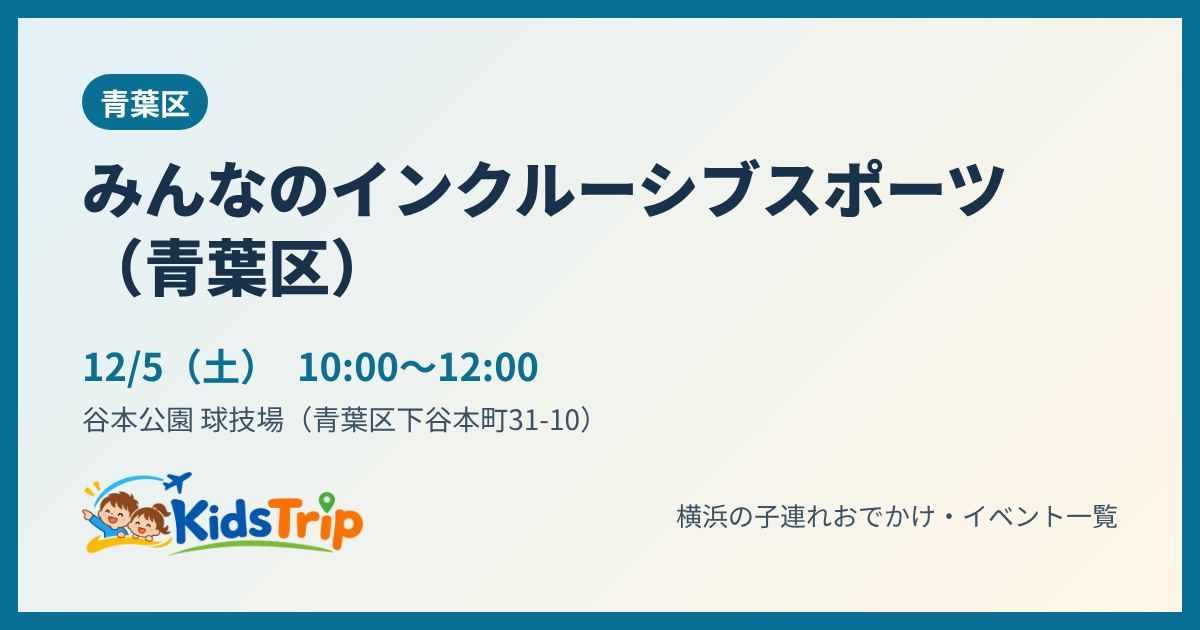
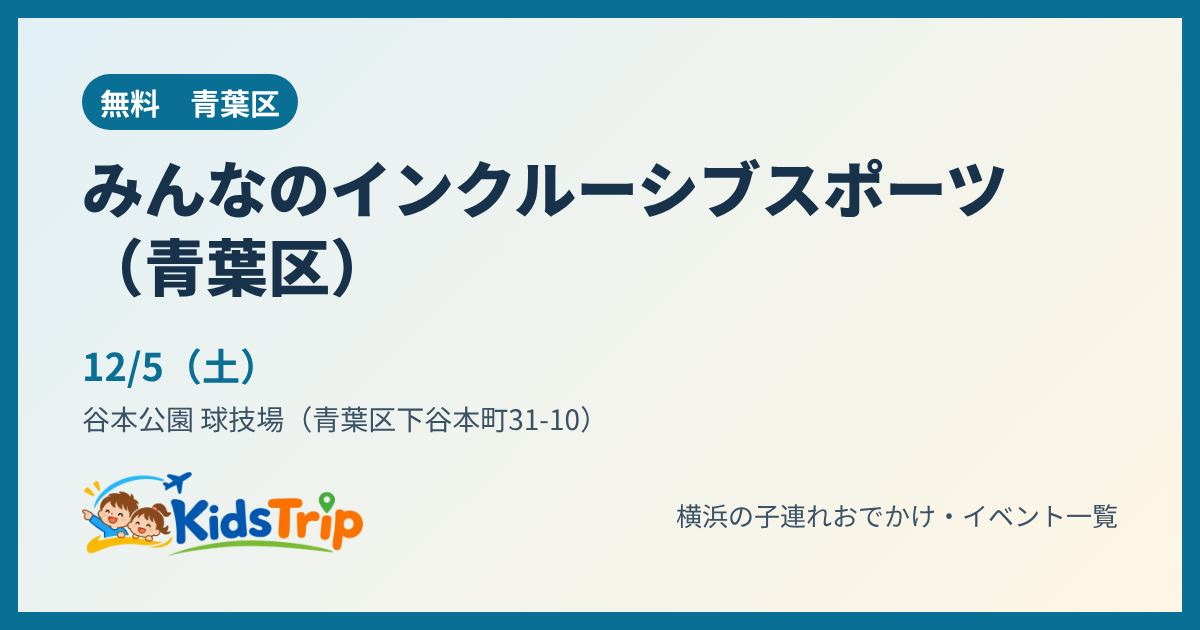
みんなのインクルーシブスポーツ：泉区・青葉区・瀬谷区の時間・会場・内容を公式の画面で更新（利用者の画面）
Claude-Session: https://claude.ai/code/session_014AtJ2g3ghW1boxsW7syVwL

Changed region(s): [[0.0617, 0.0905, 0.2467, 0.2111], [0.2467, 0.5429, 0.4625, 0.6032]]

diff --git a/event/olckix/index.html b/event/olckix/index.html
@@ -4,12 +4,12 @@
 <meta charset="utf-8">
 <meta name="viewport" content="width=device-width, initial-scale=1">
 <title>みんなのインクルーシブスポーツ（泉区）｜横浜の子連れイベント｜KidsTrip</title>
-<meta name="description" content="11月28日(土)　境川遊水地公園。障害のある人もない人もいっしょに楽しめるスポーツ体験。過去の回ではボッチャ、モルック、バッゴー、輪投げ、車いすの体験などがあった。">
+<meta name="description" content="11月28日(土)　境川遊水地公園 今田遊水地（藤沢市今田89-2・2026ふれあいフェスタの会場内）。県立境川遊水地公園の「2026ふれあいフェスタ」の中で、モルック・輪投げ・グラウンドゴルフ・フリスビーなどのインクルーシブスポーツを体験">
 <link rel="canonical" href="https://kidstrip.jp/event/olckix/">
 <meta property="og:type" content="article">
 <meta property="og:site_name" content="KidsTrip">
 <meta property="og:title" content="みんなのインクルーシブスポーツ（泉区）｜横浜の子連れイベント｜KidsTrip">
-<meta property="og:description" content="11月28日(土)　境川遊水地公園。障害のある人もない人もいっしょに楽しめるスポーツ体験。過去の回ではボッチャ、モルック、バッゴー、輪投げ、車いすの体験などがあった。">
+<meta property="og:description" content="11月28日(土)　境川遊水地公園 今田遊水地（藤沢市今田89-2・2026ふれあいフェスタの会場内）。県立境川遊水地公園の「2026ふれあいフェスタ」の中で、モルック・輪投げ・グラウンドゴルフ・フリスビーなどのインクルーシブスポーツを体験">
 <meta property="og:url" content="https://kidstrip.jp/event/olckix/">
 <meta property="og:image" content="https://kidstrip.jp/og/olckix.jpg">
 <meta property="og:image:width" content="1200">
@@ -21,7 +21,7 @@
 <link rel="icon" href="../../img/favicon.png">
 <link rel="apple-touch-icon" href="../../img/apple-touch-icon.png">
 <script type="application/ld+json">{"@context": "https://schema.org", "@type": "BreadcrumbList", "itemListElement": [{"@type": "ListItem", "position": 1, "name": "トップ", "item": "https://kidstrip.jp/"}, {"@type": "ListItem", "position": 2, "name": "イベント", "item": "https://kidstrip.jp/"}, {"@type": "ListItem", "position": 3, "name": "みんなのインクルーシブスポーツ（泉区）"}]}</script>
-<script type="application/ld+json">{"@context": "https://schema.org", "@type": "Event", "name": "みんなのインクルーシブスポーツ（泉区）", "startDate": "2026-11-28", "endDate": "2026-11-28", "eventStatus": "https://schema.org/EventScheduled", "eventAttendanceMode": "https://schema.org/OfflineEventAttendanceMode", "location": {"@type": "Place", "name": "境川遊水地公園", "address": {"@type": "PostalAddress", "addressLocality": "横浜市泉区", "addressRegion": "神奈川県", "addressCountry": "JP"}, "geo": {"@type": "GeoCoordinates", "latitude": 35.399, "longitude": 139.492}}, "description": "障害のある人もない人もいっしょに楽しめるスポーツ体験。過去の回ではボッチャ、モルック、バッゴー、輪投げ、車いすの体験などがあった。", "image": ["https://kidstrip.jp/og/olckix.jpg"], "url": "https://kidstrip.jp/event/olckix/", "isAccessibleForFree": false, "inLanguage": "ja"}</script>
+<script type="application/ld+json">{"@context": "https://schema.org", "@type": "Event", "name": "みんなのインクルーシブスポーツ（泉区）", "startDate": "2026-11-28T10:00:00+09:00", "endDate": "2026-11-28", "eventStatus": "https://schema.org/EventScheduled", "eventAttendanceMode": "https://schema.org/OfflineEventAttendanceMode", "location": {"@type": "Place", "name": "境川遊水地公園 今田遊水地（藤沢市今田89-2・2026ふれあいフェスタの会場内）", "address": {"@type": "PostalAddress", "addressLocality": "横浜市泉区", "addressRegion": "神奈川県", "addressCountry": "JP"}, "geo": {"@type": "GeoCoordinates", "latitude": 35.399, "longitude": 139.492}}, "description": "県立境川遊水地公園の「2026ふれあいフェスタ」の中で、モルック・輪投げ・グラウンドゴルフ・フリスビーなどのインクルーシブスポーツを体験できる。同じ会場でパトカー・消防車の乗車体験（パトカー10〜12時・消防車10〜13時）、スタンプラリー、お囃子、マルシェ、キッチンカーもある。", "image": ["https://kidstrip.jp/og/olckix.jpg"], "url": "https://kidstrip.jp/event/olckix/", "isAccessibleForFree": true, "inLanguage": "ja", "offers": {"@type": "Offer", "price": 0, "priceCurrency": "JPY", "url": "https://ysa-inclusive.hp.peraichi.com/12kaisai", "availability": "https://schema.org/InStock"}}</script>
 <style>
 .gkcmp th[scope=row]{white-space:nowrap}.gkcmp td{font-size:.92em}
 .gk{list-style:none;padding:0}.gk li{border:1px solid #e5e5e5;border-radius:10px;padding:10px 12px;margin:8px 0;line-height:1.7}.gk h3{margin:0 0 2px;font-size:1.02em}
@@ -51,23 +51,23 @@ footer{margin:28px 0 8px;font-size:12px;color:var(--muted)}
 <article class="card">
 <h1>みんなのインクルーシブスポーツ（泉区）</h1>
 
-<ul class="chips"><li>料金要確認</li><li>障害のある人もない人も、どなたでも（過去の回）</li><li>屋外</li><li>天気に注意</li></ul>
+<ul class="chips"><li>無料</li><li>障害のある人もない人も、どなたでも</li><li>屋外</li><li>天気に注意</li></ul>
 <table class="info">
 <tr><th>日にち</th><td>11月28日(土)</td></tr>
-<tr><th>時間</th><td>時間は調整中</td></tr>
-<tr><th>場所</th><td>泉区・境川遊水地公園</td></tr>
-<tr><th>料金</th><td>料金は公式ページに記載なし（チラシで確認。過去の回は無料・当日受付）</td></tr>
-<tr><th>対象</th><td>障害のある人もない人も、どなたでも（過去の回）</td></tr>
-<tr><th>予約</th><td>申込方法は公式ページに記載なし（チラシで確認）</td></tr>
-<tr><th>雨の日</th><td>天気に注意（屋外。天候による変更はチラシ・公式で確認）</td></tr>
+<tr><th>時間</th><td>10:00〜14:00（小雨決行）</td></tr>
+<tr><th>場所</th><td>泉区・境川遊水地公園 今田遊水地（藤沢市今田89-2・2026ふれあいフェスタの会場内）</td></tr>
+<tr><th>料金</th><td>参加は無料（モルック交流会は当日エントリー。ふれあいフェスタのプラバンキーホルダー・缶バッジ作りは各100円、キッチンカーは有料）</td></tr>
+<tr><th>対象</th><td>障害のある人もない人も、どなたでも</td></tr>
+<tr><th>予約</th><td>当日参加（モルックミニ交流会は当日エントリーでだれでも）</td></tr>
+<tr><th>雨の日</th><td>天気に注意（小雨決行。天候で種目が変わることがある）</td></tr>
 </table>
-<p class="sum">障害のある人もない人もいっしょに楽しめるスポーツ体験。過去の回ではボッチャ、モルック、バッゴー、輪投げ、車いすの体験などがあった。</p>
-<p class="tip">💡 内容はチラシ（公式ページからリンク）で確認を。屋内の会場は室内履きを持って行く</p>
-<p class="small">情報の時点：2026年11月11日　出典：横浜市スポーツ協会 公式</p>
+<p class="sum">県立境川遊水地公園の「2026ふれあいフェスタ」の中で、モルック・輪投げ・グラウンドゴルフ・フリスビーなどのインクルーシブスポーツを体験できる。同じ会場でパトカー・消防車の乗車体験（パトカー10〜12時・消防車10〜13時）、スタンプラリー、お囃子、マルシェ、キッチンカーもある。</p>
+<p class="tip">💡 会場は今田遊水地（住所は藤沢市）。小田急江ノ島線・相鉄いずみ野線・地下鉄ブルーライン「湘南台」駅などから歩いて約15分。乗り物の体験は時間が決まっているので早めに</p>
+<p class="small">情報の時点：2026年11月23日　出典：横浜市スポーツ協会 公式（みんなのインクルーシブスポーツのページとチラシ。利用者が送った画面、2026年11月）</p>
 <div class="btns"><a class="btn main" data-act="official" href="https://ysa-inclusive.hp.peraichi.com/12kaisai" target="_blank" rel="noopener">公式ページで確認</a>
 <a class="btn" href="/?e=olckix">一覧で見る（行き方・近くのごはん）</a>
 <button type="button" class="btn" data-share="1">🔗 リンクを送る・コピー</button>
-<a class="btn line" href="https://line.me/R/share?text=%E3%80%90%E3%81%BF%E3%82%93%E3%81%AA%E3%81%AE%E3%82%A4%E3%83%B3%E3%82%AF%E3%83%AB%E3%83%BC%E3%82%B7%E3%83%96%E3%82%B9%E3%83%9D%E3%83%BC%E3%83%84%EF%BC%88%E6%B3%89%E5%8C%BA%EF%BC%89%E3%80%91%0A11%E6%9C%8828%E6%97%A5%28%E5%9C%9F%29%E3%80%80%E6%99%82%E9%96%93%E3%81%AF%E8%AA%BF%E6%95%B4%E4%B8%AD%0A%E5%A0%B4%E6%89%80%EF%BC%9A%E6%B3%89%E5%8C%BA%E3%83%BB%E5%A2%83%E5%B7%9D%E9%81%8A%E6%B0%B4%E5%9C%B0%E5%85%AC%E5%9C%92%0Ahttps%3A//kidstrip.jp/event/olckix/" target="_blank" rel="noopener">LINEで送る</a></div>
+<a class="btn line" href="https://line.me/R/share?text=%E3%80%90%E3%81%BF%E3%82%93%E3%81%AA%E3%81%AE%E3%82%A4%E3%83%B3%E3%82%AF%E3%83%AB%E3%83%BC%E3%82%B7%E3%83%96%E3%82%B9%E3%83%9D%E3%83%BC%E3%83%84%EF%BC%88%E6%B3%89%E5%8C%BA%EF%BC%89%E3%80%91%0A11%E6%9C%8828%E6%97%A5%28%E5%9C%9F%29%E3%80%8010%3A00%E3%80%9C14%3A00%EF%BC%88%E5%B0%8F%E9%9B%A8%E6%B1%BA%E8%A1%8C%EF%BC%89%0A%E5%A0%B4%E6%89%80%EF%BC%9A%E6%B3%89%E5%8C%BA%E3%83%BB%E5%A2%83%E5%B7%9D%E9%81%8A%E6%B0%B4%E5%9C%B0%E5%85%AC%E5%9C%92%20%E4%BB%8A%E7%94%B0%E9%81%8A%E6%B0%B4%E5%9C%B0%EF%BC%88%E8%97%A4%E6%B2%A2%E5%B8%82%E4%BB%8A%E7%94%B089-2%E3%83%BB2026%E3%81%B5%E3%82%8C%E3%81%82%E3%81%84%E3%83%95%E3%82%A7%E3%82%B9%E3%82%BF%E3%81%AE%E4%BC%9A%E5%A0%B4%E5%86%85%EF%BC%89%0Ahttps%3A//kidstrip.jp/event/olckix/" target="_blank" rel="noopener">LINEで送る</a></div>
 </article>
 
 

diff --git a/event/1qxaqxl/index.html b/event/1qxaqxl/index.html
@@ -4,12 +4,12 @@
 <meta charset="utf-8">
 <meta name="viewport" content="width=device-width, initial-scale=1">
 <title>みんなのインクルーシブスポーツ（青葉区）｜横浜の子連れイベント｜KidsTrip</title>
-<meta name="description" content="12月5日(土)　谷本公園 球技場（青葉区下谷本町31-10）。障害のある人もない人もいっしょに楽しめるスポーツ体験。過去の回ではボッチャ、モルック、バッゴー、輪投げ、車いすの体験などがあった。">
+<meta name="description" content="12月5日(土)　谷本公園 球技場（青葉区下谷本町31-10）。人工芝の球技場の無料開放の日に開かれる、ボッチャやモルックなどのインクルーシブスポーツ体験。同じ日にフットボールのミニゲーム会（10〜12時、小学1年生〜大人）、ヤギの草刈り（">
 <link rel="canonical" href="https://kidstrip.jp/event/1qxaqxl/">
 <meta property="og:type" content="article">
 <meta property="og:site_name" content="KidsTrip">
 <meta property="og:title" content="みんなのインクルーシブスポーツ（青葉区）｜横浜の子連れイベント｜KidsTrip">
-<meta property="og:description" content="12月5日(土)　谷本公園 球技場（青葉区下谷本町31-10）。障害のある人もない人もいっしょに楽しめるスポーツ体験。過去の回ではボッチャ、モルック、バッゴー、輪投げ、車いすの体験などがあった。">
+<meta property="og:description" content="12月5日(土)　谷本公園 球技場（青葉区下谷本町31-10）。人工芝の球技場の無料開放の日に開かれる、ボッチャやモルックなどのインクルーシブスポーツ体験。同じ日にフットボールのミニゲーム会（10〜12時、小学1年生〜大人）、ヤギの草刈り（">
 <meta property="og:url" content="https://kidstrip.jp/event/1qxaqxl/">
 <meta property="og:image" content="https://kidstrip.jp/og/1qxaqxl.jpg">
 <meta property="og:image:width" content="1200">
@@ -21,7 +21,7 @@
 <link rel="icon" href="../../img/favicon.png">
 <link rel="apple-touch-icon" href="../../img/apple-touch-icon.png">
 <script type="application/ld+json">{"@context": "https://schema.org", "@type": "BreadcrumbList", "itemListElement": [{"@type": "ListItem", "position": 1, "name": "トップ", "item": "https://kidstrip.jp/"}, {"@type": "ListItem", "position": 2, "name": "イベント", "item": "https://kidstrip.jp/"}, {"@type": "ListItem", "position": 3, "name": "みんなのインクルーシブスポーツ（青葉区）"}]}</script>
-<script type="application/ld+json">{"@context": "https://schema.org", "@type": "Event", "name": "みんなのインクルーシブスポーツ（青葉区）", "startDate": "2026-12-05T10:00:00+09:00", "endDate": "2026-12-05", "eventStatus": "https://schema.org/EventScheduled", "eventAttendanceMode": "https://schema.org/OfflineEventAttendanceMode", "location": {"@type": "Place", "name": "谷本公園 球技場", "address": {"@type": "PostalAddress", "streetAddress": "下谷本町31-10", "addressLocality": "横浜市青葉区", "addressRegion": "神奈川県", "addressCountry": "JP"}, "geo": {"@type": "GeoCoordinates", "latitude": 35.553, "longitude": 139.525}}, "description": "障害のある人もない人もいっしょに楽しめるスポーツ体験。過去の回ではボッチャ、モルック、バッゴー、輪投げ、車いすの体験などがあった。", "image": ["https://kidstrip.jp/og/1qxaqxl.jpg"], "url": "https://kidstrip.jp/event/1qxaqxl/", "isAccessibleForFree": false, "inLanguage": "ja"}</script>
+<script type="application/ld+json">{"@context": "https://schema.org", "@type": "Event", "name": "みんなのインクルーシブスポーツ（青葉区）", "startDate": "2026-12-05T10:00:00+09:00", "endDate": "2026-12-05", "eventStatus": "https://schema.org/EventScheduled", "eventAttendanceMode": "https://schema.org/OfflineEventAttendanceMode", "location": {"@type": "Place", "name": "谷本公園 球技場", "address": {"@type": "PostalAddress", "streetAddress": "下谷本町31-10", "addressLocality": "横浜市青葉区", "addressRegion": "神奈川県", "addressCountry": "JP"}, "geo": {"@type": "GeoCoordinates", "latitude": 35.553, "longitude": 139.525}}, "description": "人工芝の球技場の無料開放の日に開かれる、ボッチャやモルックなどのインクルーシブスポーツ体験。同じ日にフットボールのミニゲーム会（10〜12時、小学1年生〜大人）、ヤギの草刈り（10〜15時、えさやり10:30・14:30）、キッチンカーと野菜の直売（10〜16時）もある。", "image": ["https://kidstrip.jp/og/1qxaqxl.jpg"], "url": "https://kidstrip.jp/event/1qxaqxl/", "isAccessibleForFree": true, "inLanguage": "ja", "offers": {"@type": "Offer", "price": 0, "priceCurrency": "JPY", "url": "https://ysa-inclusive.hp.peraichi.com/12kaisai", "availability": "https://schema.org/InStock"}}</script>
 <style>
 .gkcmp th[scope=row]{white-space:nowrap}.gkcmp td{font-size:.92em}
 .gk{list-style:none;padding:0}.gk li{border:1px solid #e5e5e5;border-radius:10px;padding:10px 12px;margin:8px 0;line-height:1.7}.gk h3{margin:0 0 2px;font-size:1.02em}
@@ -51,23 +51,23 @@ footer{margin:28px 0 8px;font-size:12px;color:var(--muted)}
 <article class="card">
 <h1>みんなのインクルーシブスポーツ（青葉区）</h1>
 
-<ul class="chips"><li>料金要確認</li><li>障害のある人もない人も、どなたでも（過去の回）</li><li>屋外</li><li>天気に注意</li></ul>
+<ul class="chips"><li>無料</li><li>障害のある人もない人も、どなたでも</li><li>屋外</li><li>天気に注意</li></ul>
 <table class="info">
 <tr><th>日にち</th><td>12月5日(土)</td></tr>
-<tr><th>時間</th><td>10:00〜12:00</td></tr>
+<tr><th>時間</th><td>10:00〜12:00（同じ日に球技場の無料開放10:00〜16:00）</td></tr>
 <tr><th>場所</th><td>青葉区・谷本公園 球技場（青葉区下谷本町31-10）</td></tr>
-<tr><th>料金</th><td>料金は公式ページに記載なし（チラシで確認。過去の回は無料・当日受付）</td></tr>
-<tr><th>対象</th><td>障害のある人もない人も、どなたでも（過去の回）</td></tr>
-<tr><th>予約</th><td>申込方法は公式ページに記載なし（チラシで確認）</td></tr>
-<tr><th>雨の日</th><td>天気に注意（屋外。天候による変更はチラシ・公式で確認）</td></tr>
+<tr><th>料金</th><td>インクルーシブスポーツ・球技場の無料開放は無料。キッチンカーは有料</td></tr>
+<tr><th>対象</th><td>障害のある人もない人も、どなたでも</td></tr>
+<tr><th>予約</th><td>申込の記載なし（当日参加）</td></tr>
+<tr><th>雨の日</th><td>天気に注意（屋外。雨で中止するかは谷本公園のブログかXで確認）</td></tr>
 </table>
-<p class="sum">障害のある人もない人もいっしょに楽しめるスポーツ体験。過去の回ではボッチャ、モルック、バッゴー、輪投げ、車いすの体験などがあった。</p>
-<p class="tip">💡 内容はチラシ（公式ページからリンク）で確認を。屋内の会場は室内履きを持って行く</p>
-<p class="small">情報の時点：2026年11月11日　出典：横浜市スポーツ協会 公式</p>
+<p class="sum">人工芝の球技場の無料開放の日に開かれる、ボッチャやモルックなどのインクルーシブスポーツ体験。同じ日にフットボールのミニゲーム会（10〜12時、小学1年生〜大人）、ヤギの草刈り（10〜15時、えさやり10:30・14:30）、キッチンカーと野菜の直売（10〜16時）もある。</p>
+<p class="tip">💡 球技場の無料開放は午前が半面、午後は全面。ヤギのえさやりはヤギの気分で長さが変わる</p>
+<p class="small">情報の時点：2026年11月23日　出典：横浜市スポーツ協会 公式（みんなのインクルーシブスポーツのページとチラシ。利用者が送った画面、2026年11月）</p>
 <div class="btns"><a class="btn main" data-act="official" href="https://ysa-inclusive.hp.peraichi.com/12kaisai" target="_blank" rel="noopener">公式ページで確認</a>
 <a class="btn" href="/?e=1qxaqxl">一覧で見る（行き方・近くのごはん）</a>
 <button type="button" class="btn" data-share="1">🔗 リンクを送る・コピー</button>
-<a class="btn line" href="https://line.me/R/share?text=%E3%80%90%E3%81%BF%E3%82%93%E3%81%AA%E3%81%AE%E3%82%A4%E3%83%B3%E3%82%AF%E3%83%AB%E3%83%BC%E3%82%B7%E3%83%96%E3%82%B9%E3%83%9D%E3%83%BC%E3%83%84%EF%BC%88%E9%9D%92%E8%91%89%E5%8C%BA%EF%BC%89%E3%80%91%0A12%E6%9C%885%E6%97%A5%28%E5%9C%9F%29%E3%80%8010%3A00%E3%80%9C12%3A00%0A%E5%A0%B4%E6%89%80%EF%BC%9A%E9%9D%92%E8%91%89%E5%8C%BA%E3%83%BB%E8%B0%B7%E6%9C%AC%E5%85%AC%E5%9C%92%20%E7%90%83%E6%8A%80%E5%A0%B4%EF%BC%88%E9%9D%92%E8%91%89%E5%8C%BA%E4%B8%8B%E8%B0%B7%E6%9C%AC%E7%94%BA31-10%EF%BC%89%0Ahttps%3A//kidstrip.jp/event/1qxaqxl/" target="_blank" rel="noopener">LINEで送る</a></div>
+<a class="btn line" href="https://line.me/R/share?text=%E3%80%90%E3%81%BF%E3%82%93%E3%81%AA%E3%81%AE%E3%82%A4%E3%83%B3%E3%82%AF%E3%83%AB%E3%83%BC%E3%82%B7%E3%83%96%E3%82%B9%E3%83%9D%E3%83%BC%E3%83%84%EF%BC%88%E9%9D%92%E8%91%89%E5%8C%BA%EF%BC%89%E3%80%91%0A12%E6%9C%885%E6%97%A5%28%E5%9C%9F%29%E3%80%8010%3A00%E3%80%9C12%3A00%EF%BC%88%E5%90%8C%E3%81%98%E6%97%A5%E3%81%AB%E7%90%83%E6%8A%80%E5%A0%B4%E3%81%AE%E7%84%A1%E6%96%99%E9%96%8B%E6%94%BE10%3A00%E3%80%9C16%3A00%EF%BC%89%0A%E5%A0%B4%E6%89%80%EF%BC%9A%E9%9D%92%E8%91%89%E5%8C%BA%E3%83%BB%E8%B0%B7%E6%9C%AC%E5%85%AC%E5%9C%92%20%E7%90%83%E6%8A%80%E5%A0%B4%EF%BC%88%E9%9D%92%E8%91%89%E5%8C%BA%E4%B8%8B%E8%B0%B7%E6%9C%AC%E7%94%BA31-10%EF%BC%89%0Ahttps%3A//kidstrip.jp/event/1qxaqxl/" target="_blank" rel="noopener">LINEで送る</a></div>
 </article>
 
 

diff --git a/event/70q7rt/index.html b/event/70q7rt/index.html
@@ -4,12 +4,12 @@
 <meta charset="utf-8">
 <meta name="viewport" content="width=device-width, initial-scale=1">
 <title>みんなのインクルーシブスポーツ（瀬谷区）｜横浜の子連れイベント｜KidsTrip</title>
-<meta name="description" content="12月6日(日)　横浜市瀬谷スポーツセンター。障害のある人もない人もいっしょに楽しめるスポーツ体験。過去の回ではボッチャ、モルック、バッゴー、輪投げ、車いすの体験などがあった。">
+<meta name="description" content="12月6日(日)　横浜市瀬谷スポーツセンター（瀬谷区南台2-4-65）。瀬谷区スポーツ協会の「第1回 みんなの笑顔いっぱいボッチャ大会」。大会のほかに、輪投げ・バッゴー・アレンジボッチャの体験コーナー（参加賞あり）と、健康チェックのコーナー">
 <link rel="canonical" href="https://kidstrip.jp/event/70q7rt/">
 <meta property="og:type" content="article">
 <meta property="og:site_name" content="KidsTrip">
 <meta property="og:title" content="みんなのインクルーシブスポーツ（瀬谷区）｜横浜の子連れイベント｜KidsTrip">
-<meta property="og:description" content="12月6日(日)　横浜市瀬谷スポーツセンター。障害のある人もない人もいっしょに楽しめるスポーツ体験。過去の回ではボッチャ、モルック、バッゴー、輪投げ、車いすの体験などがあった。">
+<meta property="og:description" content="12月6日(日)　横浜市瀬谷スポーツセンター（瀬谷区南台2-4-65）。瀬谷区スポーツ協会の「第1回 みんなの笑顔いっぱいボッチャ大会」。大会のほかに、輪投げ・バッゴー・アレンジボッチャの体験コーナー（参加賞あり）と、健康チェックのコーナー">
 <meta property="og:url" content="https://kidstrip.jp/event/70q7rt/">
 <meta property="og:image" content="https://kidstrip.jp/og/70q7rt.jpg">
 <meta property="og:image:width" content="1200">
@@ -21,7 +21,7 @@
 <link rel="icon" href="../../img/favicon.png">
 <link rel="apple-touch-icon" href="../../img/apple-touch-icon.png">
 <script type="application/ld+json">{"@context": "https://schema.org", "@type": "BreadcrumbList", "itemListElement": [{"@type": "ListItem", "position": 1, "name": "トップ", "item": "https://kidstrip.jp/"}, {"@type": "ListItem", "position": 2, "name": "イベント", "item": "https://kidstrip.jp/"}, {"@type": "ListItem", "position": 3, "name": "みんなのインクルーシブスポーツ（瀬谷区）"}]}</script>
-<script type="application/ld+json">{"@context": "https://schema.org", "@type": "Event", "name": "みんなのインクルーシブスポーツ（瀬谷区）", "startDate": "2026-12-06", "endDate": "2026-12-06", "eventStatus": "https://schema.org/EventScheduled", "eventAttendanceMode": "https://schema.org/OfflineEventAttendanceMode", "location": {"@type": "Place", "name": "横浜市瀬谷スポーツセンター", "address": {"@type": "PostalAddress", "addressLocality": "横浜市瀬谷区", "addressRegion": "神奈川県", "addressCountry": "JP"}, "geo": {"@type": "GeoCoordinates", "latitude": 35.469, "longitude": 139.489}}, "description": "障害のある人もない人もいっしょに楽しめるスポーツ体験。過去の回ではボッチャ、モルック、バッゴー、輪投げ、車いすの体験などがあった。", "image": ["https://kidstrip.jp/og/70q7rt.jpg"], "url": "https://kidstrip.jp/event/70q7rt/", "isAccessibleForFree": false, "inLanguage": "ja"}</script>
+<script type="application/ld+json">{"@context": "https://schema.org", "@type": "Event", "name": "みんなのインクルーシブスポーツ（瀬谷区）", "startDate": "2026-12-06T10:00:00+09:00", "endDate": "2026-12-06", "eventStatus": "https://schema.org/EventScheduled", "eventAttendanceMode": "https://schema.org/OfflineEventAttendanceMode", "location": {"@type": "Place", "name": "横浜市瀬谷スポーツセンター", "address": {"@type": "PostalAddress", "streetAddress": "南台2-4-65", "addressLocality": "横浜市瀬谷区", "addressRegion": "神奈川県", "addressCountry": "JP"}, "geo": {"@type": "GeoCoordinates", "latitude": 35.469, "longitude": 139.489}}, "description": "瀬谷区スポーツ協会の「第1回 みんなの笑顔いっぱいボッチャ大会」。大会のほかに、輪投げ・バッゴー・アレンジボッチャの体験コーナー（参加賞あり）と、健康チェックのコーナーがある。", "image": ["https://kidstrip.jp/og/70q7rt.jpg"], "url": "https://kidstrip.jp/event/70q7rt/", "isAccessibleForFree": false, "inLanguage": "ja"}</script>
 <style>
 .gkcmp th[scope=row]{white-space:nowrap}.gkcmp td{font-size:.92em}
 .gk{list-style:none;padding:0}.gk li{border:1px solid #e5e5e5;border-radius:10px;padding:10px 12px;margin:8px 0;line-height:1.7}.gk h3{margin:0 0 2px;font-size:1.02em}
@@ -51,23 +51,23 @@ footer{margin:28px 0 8px;font-size:12px;color:var(--muted)}
 <article class="card">
 <h1>みんなのインクルーシブスポーツ（瀬谷区）</h1>
 
-<ul class="chips"><li>料金要確認</li><li>障害のある人もない人も、どなたでも（過去の回）</li><li>屋内</li><li>雨でもOK</li></ul>
+<ul class="chips"><li>料金要確認</li><li>障害のある人もない人も、どなたでも</li><li>屋内</li><li>雨でもOK</li></ul>
 <table class="info">
 <tr><th>日にち</th><td>12月6日(日)</td></tr>
-<tr><th>時間</th><td>時間は調整中</td></tr>
-<tr><th>場所</th><td>瀬谷区・横浜市瀬谷スポーツセンター</td></tr>
-<tr><th>料金</th><td>料金は公式ページに記載なし（チラシで確認。過去の回は無料・当日受付）</td></tr>
-<tr><th>対象</th><td>障害のある人もない人も、どなたでも（過去の回）</td></tr>
-<tr><th>予約</th><td>申込方法は公式ページに記載なし（チラシで確認）</td></tr>
+<tr><th>時間</th><td>10:00〜12:30（受付9:30〜）</td></tr>
+<tr><th>場所</th><td>瀬谷区・横浜市瀬谷スポーツセンター（瀬谷区南台2-4-65）</td></tr>
+<tr><th>料金</th><td>料金は公式ページに記載なし（体験コーナーは参加賞あり）</td></tr>
+<tr><th>対象</th><td>障害のある人もない人も、どなたでも</td></tr>
+<tr><th>予約</th><td>ボッチャ大会は事前申込制（申込は11/11〜18で締め切り）。体験コーナーの申込は公式ページに記載なし</td></tr>
 <tr><th>雨の日</th><td>雨でもOK（屋内）</td></tr>
 </table>
-<p class="sum">障害のある人もない人もいっしょに楽しめるスポーツ体験。過去の回ではボッチャ、モルック、バッゴー、輪投げ、車いすの体験などがあった。</p>
-<p class="tip">💡 内容はチラシ（公式ページからリンク）で確認を。屋内の会場は室内履きを持って行く</p>
-<p class="small">情報の時点：2026年11月11日　出典：横浜市スポーツ協会 公式</p>
+<p class="sum">瀬谷区スポーツ協会の「第1回 みんなの笑顔いっぱいボッチャ大会」。大会のほかに、輪投げ・バッゴー・アレンジボッチャの体験コーナー（参加賞あり）と、健康チェックのコーナーがある。</p>
+<p class="tip">💡 ボッチャ大会の申込は締め切り。体験コーナーで遊べる。屋内なので室内履きを持って行く</p>
+<p class="small">情報の時点：2026年11月23日　出典：瀬谷区スポーツ協会（横浜市スポーツ協会のみんなのインクルーシブスポーツのページとチラシ。利用者が送った画面、2026年11月）</p>
 <div class="btns"><a class="btn main" data-act="official" href="https://ysa-inclusive.hp.peraichi.com/12kaisai" target="_blank" rel="noopener">公式ページで確認</a>
 <a class="btn" href="/?e=70q7rt">一覧で見る（行き方・近くのごはん）</a>
 <button type="button" class="btn" data-share="1">🔗 リンクを送る・コピー</button>
-<a class="btn line" href="https://line.me/R/share?text=%E3%80%90%E3%81%BF%E3%82%93%E3%81%AA%E3%81%AE%E3%82%A4%E3%83%B3%E3%82%AF%E3%83%AB%E3%83%BC%E3%82%B7%E3%83%96%E3%82%B9%E3%83%9D%E3%83%BC%E3%83%84%EF%BC%88%E7%80%AC%E8%B0%B7%E5%8C%BA%EF%BC%89%E3%80%91%0A12%E6%9C%886%E6%97%A5%28%E6%97%A5%29%E3%80%80%E6%99%82%E9%96%93%E3%81%AF%E8%AA%BF%E6%95%B4%E4%B8%AD%0A%E5%A0%B4%E6%89%80%EF%BC%9A%E7%80%AC%E8%B0%B7%E5%8C%BA%E3%83%BB%E6%A8%AA%E6%B5%9C%E5%B8%82%E7%80%AC%E8%B0%B7%E3%82%B9%E3%83%9D%E3%83%BC%E3%83%84%E3%82%BB%E3%83%B3%E3%82%BF%E3%83%BC%0Ahttps%3A//kidstrip.jp/event/70q7rt/" target="_blank" rel="noopener">LINEで送る</a></div>
+<a class="btn line" href="https://line.me/R/share?text=%E3%80%90%E3%81%BF%E3%82%93%E3%81%AA%E3%81%AE%E3%82%A4%E3%83%B3%E3%82%AF%E3%83%AB%E3%83%BC%E3%82%B7%E3%83%96%E3%82%B9%E3%83%9D%E3%83%BC%E3%83%84%EF%BC%88%E7%80%AC%E8%B0%B7%E5%8C%BA%EF%BC%89%E3%80%91%0A12%E6%9C%886%E6%97%A5%28%E6%97%A5%29%E3%80%8010%3A00%E3%80%9C12%3A30%EF%BC%88%E5%8F%97%E4%BB%989%3A30%E3%80%9C%EF%BC%89%0A%E5%A0%B4%E6%89%80%EF%BC%9A%E7%80%AC%E8%B0%B7%E5%8C%BA%E3%83%BB%E6%A8%AA%E6%B5%9C%E5%B8%82%E7%80%AC%E8%B0%B7%E3%82%B9%E3%83%9D%E3%83%BC%E3%83%84%E3%82%BB%E3%83%B3%E3%82%BF%E3%83%BC%EF%BC%88%E7%80%AC%E8%B0%B7%E5%8C%BA%E5%8D%97%E5%8F%B02-4-65%EF%BC%89%0Ahttps%3A//kidstrip.jp/event/70q7rt/" target="_blank" rel="noopener">LINEで送る</a></div>
 </article>
 
 <h2>行き方のめやす</h2><ul class="links"><li>🚃 最寄り 瀬谷駅（相鉄線）</li></ul>

diff --git a/js/data.js b/js/data.js
@@ -1414,26 +1414,26 @@ EVENTS.push(
     tip:"夕方以降は光の演出がきれい。ヨルノヨ（12/4〜30）と同じ日に回れる。手袋があると安心", url:"https://winterwonderpark.yokohama", src:"いこーよ（2026年の開催記事）・公式サイト", asof:"2026年11月11日" }
 );
 EVENTS.push(
-  { t:"みんなのインクルーシブスポーツ（泉区）", days:["11/28"], time:"時間は調整中", ward:"泉区", venue:"境川遊水地公園",
-    price:"unknown", priceText:"料金は公式ページに記載なし（チラシで確認。過去の回は無料・当日受付）", place:"屋外", rain:"check", rainText:"屋外。天候による変更はチラシ・公式で確認",
-    resv:null, resvText:"申込方法は公式ページに記載なし（チラシで確認）", age:[3,99], ageText:"障害のある人もない人も、どなたでも（過去の回）", kind:"limited", start:600,
-    sum:"障害のある人もない人もいっしょに楽しめるスポーツ体験。過去の回ではボッチャ、モルック、バッゴー、輪投げ、車いすの体験などがあった。",
-    tip:"内容はチラシ（公式ページからリンク）で確認を。屋内の会場は室内履きを持って行く", url:"https://ysa-inclusive.hp.peraichi.com/12kaisai", src:"横浜市スポーツ協会 公式", asof:"2026年11月11日" },
+  { t:"みんなのインクルーシブスポーツ（泉区）", days:["11/28"], time:"10:00〜14:00（小雨決行）", ward:"泉区", venue:"境川遊水地公園 今田遊水地（藤沢市今田89-2・2026ふれあいフェスタの会場内）",
+    price:"free", priceText:"参加は無料（モルック交流会は当日エントリー。ふれあいフェスタのプラバンキーホルダー・缶バッジ作りは各100円、キッチンカーは有料）", place:"屋外", rain:"check", rainText:"小雨決行。天候で種目が変わることがある",
+    resv:false, resvText:"当日参加（モルックミニ交流会は当日エントリーでだれでも）", age:[3,99], ageText:"障害のある人もない人も、どなたでも", kind:"limited", start:600,
+    sum:"県立境川遊水地公園の「2026ふれあいフェスタ」の中で、モルック・輪投げ・グラウンドゴルフ・フリスビーなどのインクルーシブスポーツを体験できる。同じ会場でパトカー・消防車の乗車体験（パトカー10〜12時・消防車10〜13時）、スタンプラリー、お囃子、マルシェ、キッチンカーもある。",
+    tip:"会場は今田遊水地（住所は藤沢市）。小田急江ノ島線・相鉄いずみ野線・地下鉄ブルーライン「湘南台」駅などから歩いて約15分。乗り物の体験は時間が決まっているので早めに", url:"https://ysa-inclusive.hp.peraichi.com/12kaisai", src:"横浜市スポーツ協会 公式（みんなのインクルーシブスポーツのページとチラシ。利用者が送った画面、2026年11月）", asof:"2026年11月23日" },
   { t:"みんなのインクルーシブスポーツ（中区）", days:["12/4"], time:"10:00〜12:00", ward:"中区", venue:"横浜市中スポーツセンター 第1体育室（中区新山下3-15-4）",
     price:"free", priceText:"無料", place:"屋内", rain:"ok", rainText:"屋内",
     resv:false, resvText:"申込不要（時間内ならいつからでも参加できる）", age:[3,99], ageText:"障害のある人もない人も、どなたでも", kind:"limited", start:600,
     sum:"障害のある人もない人もいっしょに楽しめるスポーツ体験。過去の回ではボッチャ、モルック、バッゴー、輪投げ、車いすの体験などがあった。",
     tip:"内容はチラシ（公式ページからリンク）で確認を。屋内の会場は室内履きを持って行く", url:"https://www.hamaspo.com/inclusive/20261111", src:"横浜市スポーツ協会（ハマスポ）公式", asof:"2026年11月15日" },
-  { t:"みんなのインクルーシブスポーツ（青葉区）", days:["12/5"], time:"10:00〜12:00", ward:"青葉区", venue:"谷本公園 球技場（青葉区下谷本町31-10）",
-    price:"unknown", priceText:"料金は公式ページに記載なし（チラシで確認。過去の回は無料・当日受付）", place:"屋外", rain:"check", rainText:"屋外。天候による変更はチラシ・公式で確認",
-    resv:null, resvText:"申込方法は公式ページに記載なし（チラシで確認）", age:[3,99], ageText:"障害のある人もない人も、どなたでも（過去の回）", kind:"limited", start:600,
-    sum:"障害のある人もない人もいっしょに楽しめるスポーツ体験。過去の回ではボッチャ、モルック、バッゴー、輪投げ、車いすの体験などがあった。",
-    tip:"内容はチラシ（公式ページからリンク）で確認を。屋内の会場は室内履きを持って行く", url:"https://ysa-inclusive.hp.peraichi.com/12kaisai", src:"横浜市スポーツ協会 公式", asof:"2026年11月11日" },
-  { t:"みんなのインクルーシブスポーツ（瀬谷区）", days:["12/6"], time:"時間は調整中", ward:"瀬谷区", venue:"横浜市瀬谷スポーツセンター",
-    price:"unknown", priceText:"料金は公式ページに記載なし（チラシで確認。過去の回は無料・当日受付）", place:"屋内", rain:"ok", rainText:"屋内",
-    resv:null, resvText:"申込方法は公式ページに記載なし（チラシで確認）", age:[3,99], ageText:"障害のある人もない人も、どなたでも（過去の回）", kind:"limited", start:600,
-    sum:"障害のある人もない人もいっしょに楽しめるスポーツ体験。過去の回ではボッチャ、モルック、バッゴー、輪投げ、車いすの体験などがあった。",
-    tip:"内容はチラシ（公式ページからリンク）で確認を。屋内の会場は室内履きを持って行く", url:"https://ysa-inclusive.hp.peraichi.com/12kaisai", src:"横浜市スポーツ協会 公式", asof:"2026年11月11日" }
+  { t:"みんなのインクルーシブスポーツ（青葉区）", days:["12/5"], time:"10:00〜12:00（同じ日に球技場の無料開放10:00〜16:00）", ward:"青葉区", venue:"谷本公園 球技場（青葉区下谷本町31-10）",
+    price:"free", priceText:"インクルーシブスポーツ・球技場の無料開放は無料。キッチンカーは有料", place:"屋外", rain:"check", rainText:"屋外。雨で中止するかは谷本公園のブログかXで確認",
+    resv:false, resvText:"申込の記載なし（当日参加）", age:[3,99], ageText:"障害のある人もない人も、どなたでも", kind:"limited", start:600,
+    sum:"人工芝の球技場の無料開放の日に開かれる、ボッチャやモルックなどのインクルーシブスポーツ体験。同じ日にフットボールのミニゲーム会（10〜12時、小学1年生〜大人）、ヤギの草刈り（10〜15時、えさやり10:30・14:30）、キッチンカーと野菜の直売（10〜16時）もある。",
+    tip:"球技場の無料開放は午前が半面、午後は全面。ヤギのえさやりはヤギの気分で長さが変わる", url:"https://ysa-inclusive.hp.peraichi.com/12kaisai", src:"横浜市スポーツ協会 公式（みんなのインクルーシブスポーツのページとチラシ。利用者が送った画面、2026年11月）", asof:"2026年11月23日" },
+  { t:"みんなのインクルーシブスポーツ（瀬谷区）", days:["12/6"], time:"10:00〜12:30（受付9:30〜）", ward:"瀬谷区", venue:"横浜市瀬谷スポーツセンター（瀬谷区南台2-4-65）",
+    price:"unknown", priceText:"料金は公式ページに記載なし（体験コーナーは参加賞あり）", place:"屋内", rain:"ok", rainText:"屋内",
+    resv:null, resvText:"ボッチャ大会は事前申込制（申込は11/11〜18で締め切り）。体験コーナーの申込は公式ページに記載なし", age:[3,99], ageText:"障害のある人もない人も、どなたでも", kind:"limited", start:600,
+    sum:"瀬谷区スポーツ協会の「第1回 みんなの笑顔いっぱいボッチャ大会」。大会のほかに、輪投げ・バッゴー・アレンジボッチャの体験コーナー（参加賞あり）と、健康チェックのコーナーがある。",
+    tip:"ボッチャ大会の申込は締め切り。体験コーナーで遊べる。屋内なので室内履きを持って行く", url:"https://ysa-inclusive.hp.peraichi.com/12kaisai", src:"瀬谷区スポーツ協会（横浜市スポーツ協会のみんなのインクルーシブスポーツのページとチラシ。利用者が送った画面、2026年11月）", asof:"2026年11月23日" }
 );
 EVENTS.push(
   { t:"寺家ふるさと村・四季の家（田んぼの散歩と自然の展示）", days:[], time:"いつでも（四季の家 9:00〜17:00・火曜休み、年末年始12/27〜1/5休み）", ward:"青葉区", venue:"寺家ふるさと村（青葉台駅からバス「鴨志田団地」終点すぐ）",

diff --git a/index.html b/index.html
@@ -754,7 +754,7 @@ section[id], div[id="events"] { scroll-margin-top: 56px; }
   </footer>
 </div>
 
-<script src="js/data.js?v=01424038fc" defer></script>
+<script src="js/data.js?v=db17994f35" defer></script>
 <script src="js/app.js?v=1e28e73a7b" defer></script>
 </body>
 </html>

diff --git a/tools/runs.md b/tools/runs.md
@@ -75,3 +75,4 @@
 | 2026-11-22 | 利用者との作業 | 22:36〜22:36 | 2 | 原鉄道模型博物館：簡易授乳スペース（エントランスのスタッフに声かけ）・だれでもトイレのおむつ交換台・ベビーキープを公式の画面（利用者）で確認して差しかえ |
 | 2026-11-22 | 利用者との作業 | 22:37〜22:37 | 3 | 三井ホーム Visual Presentation Center 横浜（横浜三井ビル27階・ハマハグ協賛）を赤ちゃん設備に追加（授乳室・お湯・おむつ交換台・キッズルーム・離乳食の温め。パマトコの画面） |
 | 2026-11-23 | 毎朝の更新（利用者の依頼でやり直し） | 07:17〜07:38 | 30 | 期間を11/23〜1/23に。終わった13件と過ぎた日付を外す。天気を11/22夜発表に。11/24〜30のイベントを公式で確認（長津田のベビーマッサージ・ヒップホップは受付終了、ノースポートのクリスマス工作に11/29のページ）。追加：エリック・カールの没入型展示（12/25〜）・難病チャリティーフェス（12/12）・図書館のおはなし会7件。CLAUDE.mdにハマハグを探す道具に使う手順を追加 |
+| 2026-11-23 | 利用者との作業 | 08:11〜08:11 | 4 | みんなのインクルーシブスポーツ：泉区（11/28 10〜14時・今田遊水地・ふれあいフェスタ内）・青葉区（12/5 球技場無料開放と同時）・瀬谷区（12/6 ボッチャ大会、申込締切・体験コーナーあり）を利用者が送った公式の画面で更新 |
